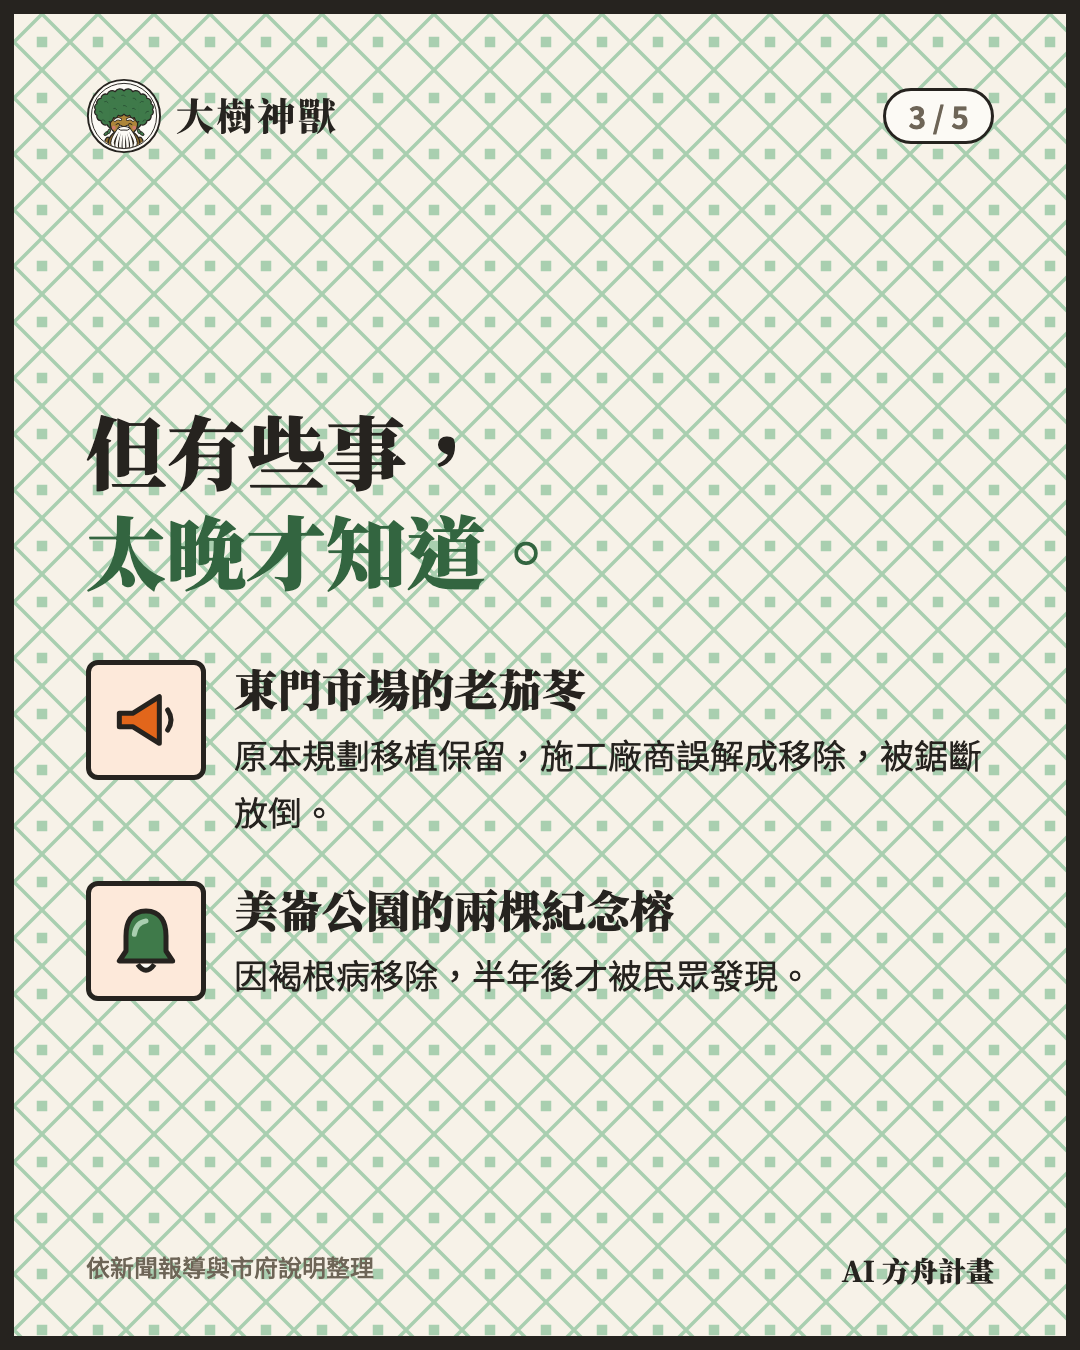
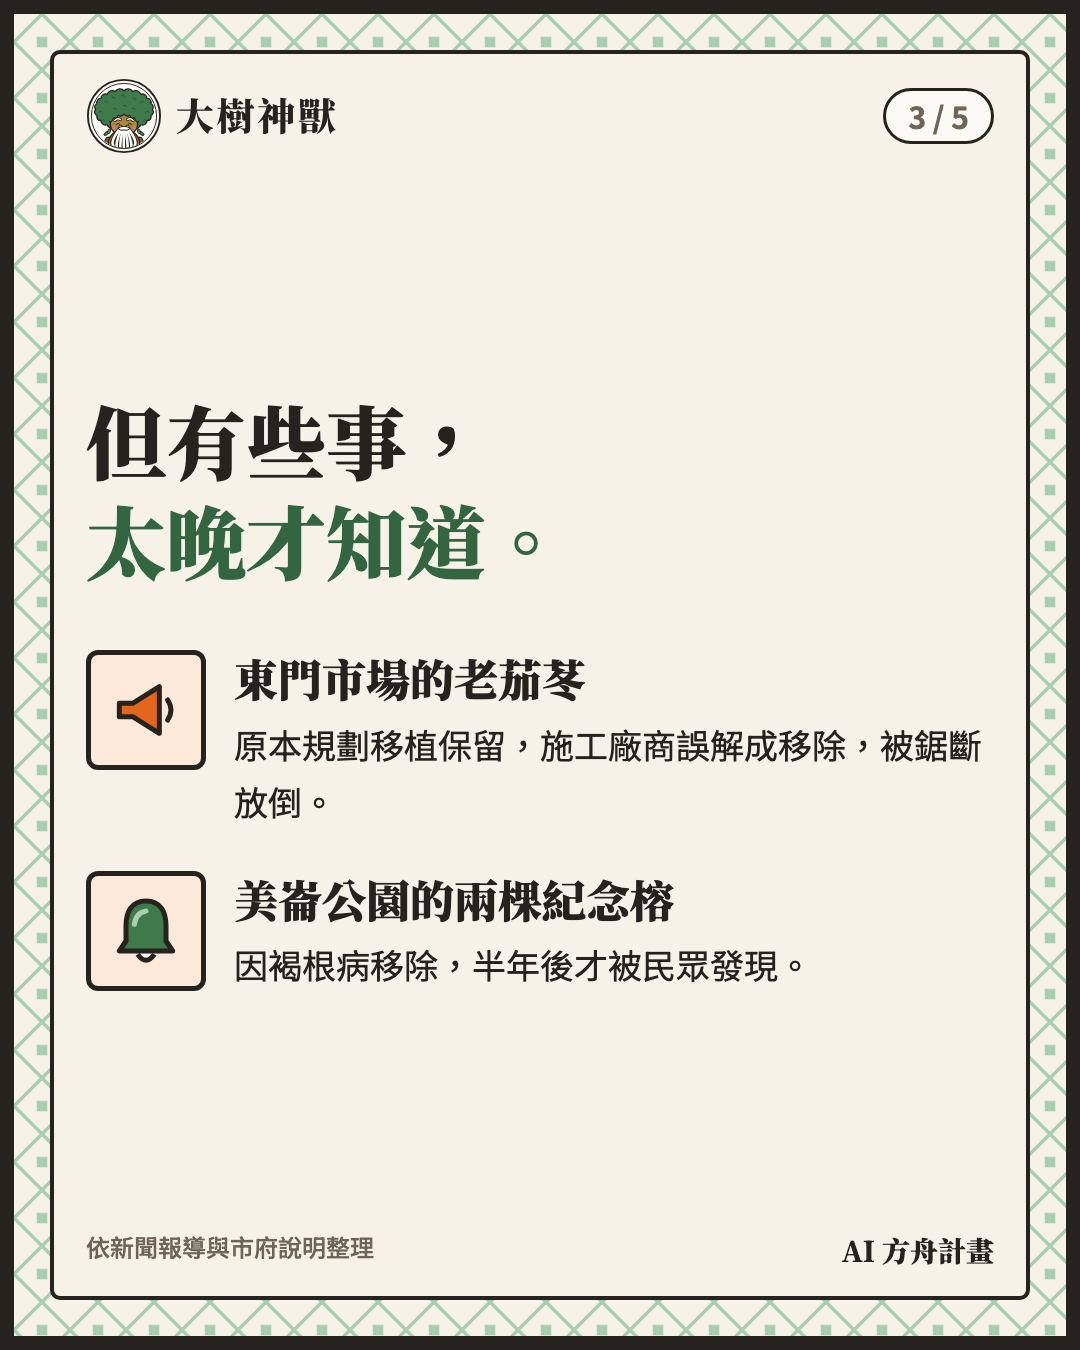
票選圖卡：C1 主視覺精簡，C1、C2-2、C2-3、C2-5 改成格紋只在外框
- C1 只留一句話、三隻神獸、投票期限和網址；登入方式、App 網址、QR code 改放貼文文字
- C1、C2-2、C2-3、C2-5 的底圖改成中間米白、格紋只在外框，字比較清楚
- cards.html 加上底圖選項（網址 &bg=）和 EDGE 清單，之後要換其他卡的底圖改清單就好

Changed region(s): [[0.0306, 0.0311, 0.9778, 0.9644]]

diff --git a/docs/vote-campaign/票選宣傳規劃.md b/docs/vote-campaign/票選宣傳規劃.md
@@ -76,7 +76,7 @@
 
 | # | 用途 | 內容 |
 |---|---|---|
-| C1 | 主視覺／投票卡 | 三隻神獸＋「大樹神獸」標誌＋一句話＋「線上票選到 10/31 18:00」＋投票 QR code，角落小字「AI 方舟計畫」 |
+| C1 | 主視覺／投票卡 | 只放三件事：一句話、三隻神獸、「線上票選至 10/31 18:00」＋投票網址。登入方式、App 網址放貼文，不放圖上 |
 | C2 | 輪播：為什麼要做 | ① 2025 年台北移除 3,164 棵樹 ② 市府說明：多數是病蟲害、自然死亡、天災 ③ 但誤砍和「半年後才發現」的事也發生過 ④ 不是沒人在乎，是沒人知道 ⑤ 所以我們做了大樹神獸 |
 | C3 | 輪播：怎麼玩 | ① 打開地圖找到樹 ② 守護祂 ③ 經過時回報樹況 ④ 樹有異動，守護者都會知道 ⑤ 分享求援籤找更多人。每張放一張實機截圖 |
 | C4 | 神獸介紹（三張） | 每隻一張：名字、樹種、個性、在地故事、「我在守護祂」 |
